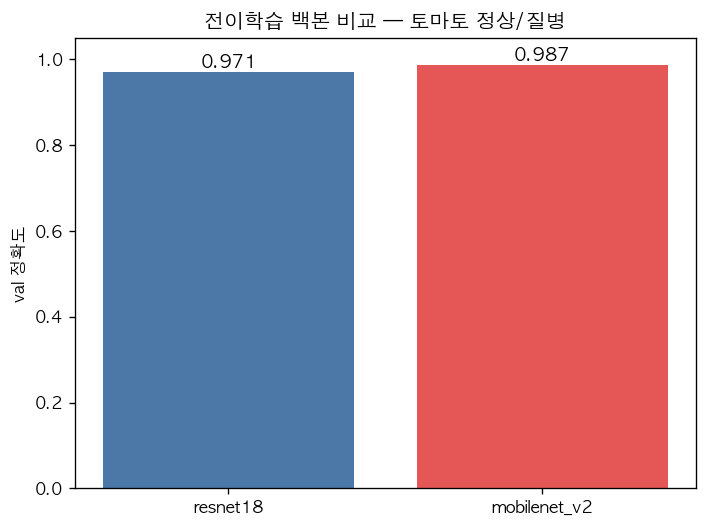
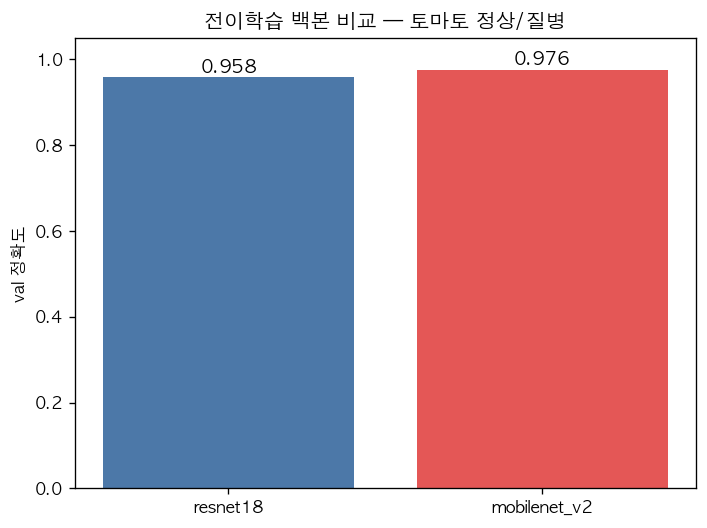
feat: 진단 4클래스 확장 — 잎마름역병(late_blight) PlantVillage 혼합·resnet18 재학습(acc 0.96)

Changed region(s): [[0.5912, 0.0909, 0.9646, 0.1515], [0.1556, 0.0909, 0.4979, 0.1515]]

diff --git a/src/dl/prepare_plantvillage.py b/src/dl/prepare_plantvillage.py
@@ -13,6 +13,7 @@ AI Hub data/tomato 에 섞는다. head 만 학습하는 freeze 전략이라도 P
   Tomato___healthy                        → normal
   Tomato___Leaf_Mold                      → leaf_mold
   Tomato___Tomato_Yellow_Leaf_Curl_Virus  → tylcv
+  Tomato___Late_blight                    → late_blight   (071 미포함, PV 전용)
 
 저장: 256px(AI Hub 가공과 동일) · 파일 prefix `pv_`(출처 구분·예시 holdout 추적)
   data/tomato/train/{cls}/pv_*.jpg   (클래스당 --per-class, 기본 300)
@@ -47,16 +48,28 @@ PV_MAP = {
     "Tomato___healthy": "normal",
     "Tomato___Leaf_Mold": "leaf_mold",
     "Tomato___Tomato_Yellow_Leaf_Curl_Virus": "tylcv",
+    "Tomato___Late_blight": "late_blight",   # 071 미포함 → PlantVillage에서만 확보
 }
 random.seed(42)
 
 
-def _list_files(folder):
-    """GitHub API 로 폴더 내 이미지의 (name, download_url) 목록."""
+def _list_files(folder, retries=4):
+    """GitHub API 로 폴더 내 이미지의 (name, download_url) 목록.
+
+    late_blight 등 파일이 많은 폴더는 목록 응답이 커서 전송 중 끊길(IncompleteRead) 수 있어
+    본문을 한 번에 읽고 실패 시 재시도한다."""
     req = urllib.request.Request(API.format(folder=folder),
                                  headers={"User-Agent": "smartfarm-prepare"})
-    with urllib.request.urlopen(req, timeout=30) as r:
-        data = json.load(r)
+    for attempt in range(retries):
+        try:
+            with urllib.request.urlopen(req, timeout=60) as r:
+                data = json.loads(r.read())      # read() 로 본문 완독 후 파싱
+            break
+        except Exception as e:
+            if attempt == retries - 1:
+                raise
+            print(f"      ⚠️ 목록 조회 재시도 {attempt + 1}/{retries}: {e}")
+            time.sleep(2 * (attempt + 1))
     return [(x["name"], x["download_url"]) for x in data
             if x["name"].lower().endswith((".jpg", ".jpeg", ".png"))]
 
@@ -79,10 +92,18 @@ def main():
     ap = argparse.ArgumentParser(description="PlantVillage(CC0) 토마토 3클래스 → data/tomato 혼합")
     ap.add_argument("--per-class", type=int, default=300, help="클래스당 train 장수(기본 300)")
     ap.add_argument("--val", type=int, default=30, help="클래스당 val(holdout) 장수(기본 30)")
+    ap.add_argument("--only", default=None,
+                    help="특정 진단 클래스만 받기(예: late_blight). 기존 클래스 재다운로드 방지")
     args = ap.parse_args()
 
+    targets = PV_MAP.items()
+    if args.only:
+        targets = [(f, c) for f, c in PV_MAP.items() if c == args.only]
+        if not targets:
+            raise SystemExit(f"--only {args.only}: PV_MAP에 없는 클래스")
+
     grand = 0
-    for folder, cls in PV_MAP.items():
+    for folder, cls in targets:
         need = args.per_class + args.val
         print(f"\n[{cls}] ← PlantVillage/{folder}  (목표 train {args.per_class} / val {args.val})")
         files = _list_files(folder)

diff --git a/src/dl/eval_domain.py b/src/dl/eval_domain.py
@@ -16,7 +16,7 @@ from torchvision import models, transforms
 
 ROOT = Path("/Users/jeongjaebong/IntelliJ/mycode/toy_project/solo/smartfarm_ai")
 CKPT = ROOT / "models" / "tomato_resnet18.pt"
-CLASSES = ["leaf_mold", "normal", "tylcv"]            # ImageFolder 알파벳순
+CLASSES = ["late_blight", "leaf_mold", "normal", "tylcv"]   # ImageFolder 알파벳순
 MEAN = [0.485, 0.456, 0.406]
 STD = [0.229, 0.224, 0.225]
 device = "mps" if torch.backends.mps.is_available() else "cpu"
@@ -63,8 +63,9 @@ def main():
                 hit, n = r
                 print(f"   {cls:10s} 정답률 {hit/n*100:5.1f}%  ({hit}/{n})")
 
-    print("\n[app/samples 데모 예시 3장]")
-    for name, true_cls in [("normal", "normal"), ("leaf_mold", "leaf_mold"), ("tylcv", "tylcv")]:
+    print("\n[app/samples 데모 예시]")
+    for name, true_cls in [("normal", "normal"), ("leaf_mold", "leaf_mold"),
+                           ("tylcv", "tylcv"), ("late_blight", "late_blight")]:
         p = ROOT / "app/samples" / f"{name}.jpg"
         if p.exists():
             pred, probs = predict(m, p)

diff --git a/src/dl/infer.py b/src/dl/infer.py
@@ -27,9 +27,10 @@ YOLO_CKPT = MODELS / "tomato_yolov8n.pt"
 
 device = "mps" if torch.backends.mps.is_available() else "cpu"
 
-# 진단 3클래스(ImageFolder 알파벳순, 학습과 동일)
-CLASSES = ["leaf_mold", "normal", "tylcv"]
-LABEL_KR = {"leaf_mold": "잎곰팡이병", "normal": "정상", "tylcv": "황화잎말이바이러스"}
+# 진단 4클래스(ImageFolder 알파벳순, 학습과 동일)
+CLASSES = ["late_blight", "leaf_mold", "normal", "tylcv"]
+LABEL_KR = {"late_blight": "잎마름역병", "leaf_mold": "잎곰팡이병",
+            "normal": "정상", "tylcv": "황화잎말이바이러스"}
 # 부위 게이트 4클래스
 PART_CLASSES = ["flower", "fruit", "leaf", "stem"]
 PART_KR = {"flower": "꽃", "fruit": "과실", "leaf": "잎", "stem": "줄기"}

diff --git a/src/dl/04_demo.py b/src/dl/04_demo.py
@@ -27,13 +27,13 @@ TOMATO = f"{ROOT}/data/tomato"
 device = "mps" if torch.backends.mps.is_available() else "cpu"
 print(f"device = {device}  (torch {torch.__version__})")
 
-CLASSES = ["leaf_mold", "normal", "tylcv"]   # ImageFolder 알파벳순(2-5와 동일, 3분류)
+CLASSES = ["late_blight", "leaf_mold", "normal", "tylcv"]   # ImageFolder 알파벳순(2-5와 동일, 4분류)
 IMAGENET_MEAN = [0.485, 0.456, 0.406]
 IMAGENET_STD = [0.229, 0.224, 0.225]
 
 
 # ── (공용①) 모델 로드 ──
-def load_resnet18(ckpt, n_classes=3):
+def load_resnet18(ckpt, n_classes=len(CLASSES)):
     """추론용 resnet18 — 사전학습 weight 불필요(우리 학습 가중치를 덮어쓰므로)."""
     from torchvision import models
     m = models.resnet18(weights=None)

diff --git a/src/dl/03_eval.py b/src/dl/03_eval.py
@@ -197,7 +197,7 @@ def run_chunk_2_9():
             y_pred.extend(prob.argmax(1)); p_dis.extend(1 - prob[:, normal_i]); y_true.extend(yb.numpy())
     y_true, y_pred, p_dis = np.array(y_true), np.array(y_pred), np.array(p_dis)
 
-    print("\n[①] classification report (3분류)")
+    print(f"\n[①] classification report ({len(classes)}분류)")
     print(classification_report(y_true, y_pred, target_names=classes, zero_division=0))
 
     cm = confusion_matrix(y_true, y_pred)